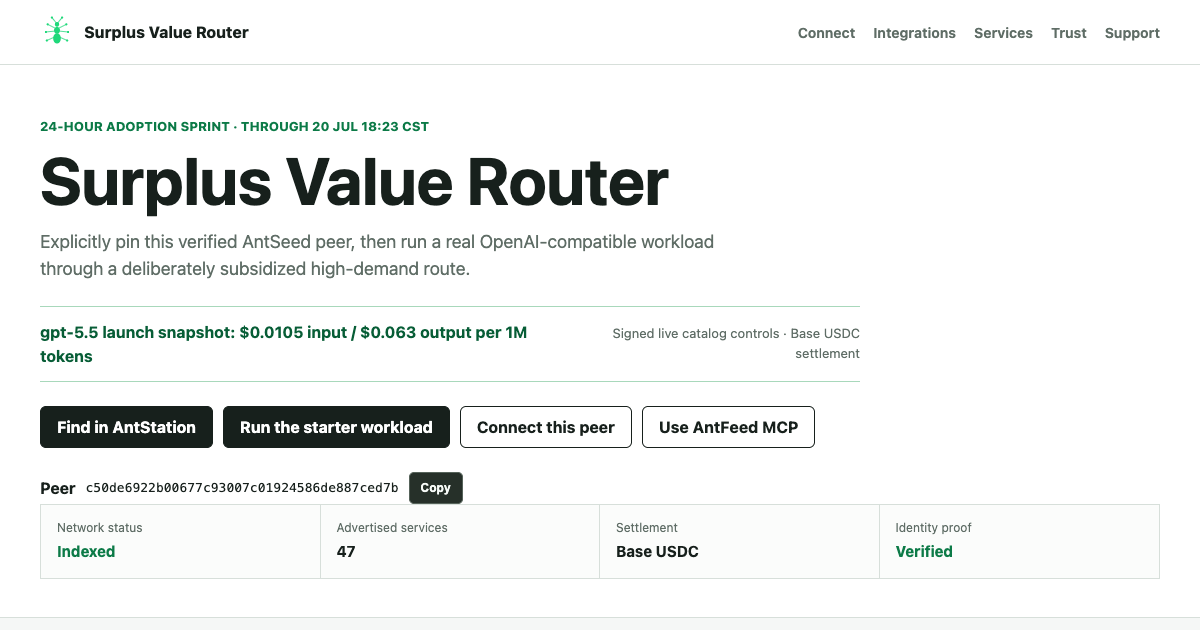
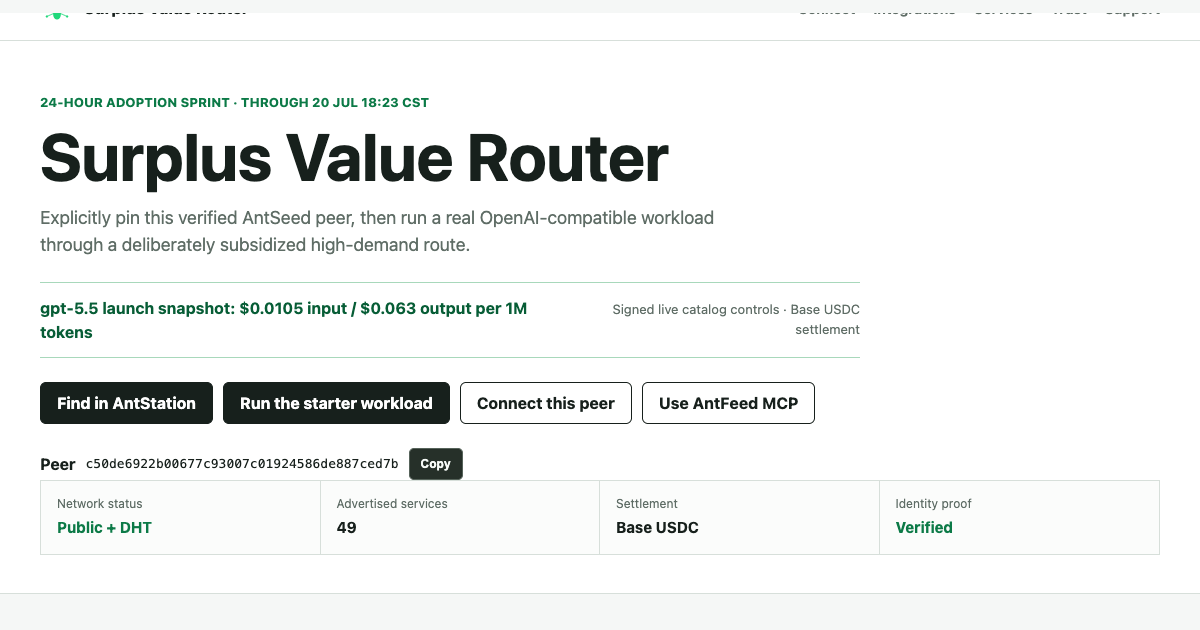
Publish monitored provider status

diff --git a/index.html b/index.html
@@ -592,11 +592,11 @@
           <div class="status-strip" aria-live="polite">
             <div class="status-item">
               <span class="status-label">Network status</span>
-              <span class="status-value status-warn" id="network-status">Checking index</span>
+              <span class="status-value status-warn" id="network-status">Checking status</span>
             </div>
             <div class="status-item">
               <span class="status-label">Advertised services</span>
-              <span class="status-value" id="service-count">47</span>
+              <span class="status-value" id="service-count">49</span>
             </div>
             <div class="status-item">
               <span class="status-label">Settlement</span>
@@ -1042,23 +1042,40 @@ https://woodfuturebj-boop.github.io/?model=gpt-5.5#first-workload</code></pre>
       async function loadStatus() {
         const networkStatus = document.getElementById("network-status");
         const proofStatus = document.getElementById("proof-status");
+        let providerStatusLoaded = false;
         try {
-          const response = await fetch("https://network.antseed.com/stats", { cache: "no-store" });
-          if (!response.ok) throw new Error("network stats unavailable");
-          const stats = await response.json();
-          const peer = (stats.peers || []).find((item) => item.peerId === PEER_ID);
-          networkStatus.textContent = peer ? "Indexed" : "DHT propagation";
-          networkStatus.className = `status-value ${peer ? "status-good" : "status-warn"}`;
-          if (peer) {
-            const serviceCount = (peer.providers || []).reduce(
-              (count, provider) => count + (provider.services || []).length,
-              0,
-            );
-            document.getElementById("service-count").textContent = String(serviceCount || 47);
-          }
+          const response = await fetch("provider-status.json", { cache: "no-store" });
+          if (!response.ok) throw new Error("provider status unavailable");
+          const status = await response.json();
+          const peerMatches = String(status.peerId || "").toLowerCase() === PEER_ID;
+          const healthy = peerMatches && status.publicMetadataOk && status.freshDhtFound && status.okForOrganicCalls;
+          networkStatus.textContent = healthy ? "Public + DHT" : "Review status";
+          networkStatus.className = `status-value ${healthy ? "status-good" : "status-warn"}`;
+          networkStatus.title = status.generatedAt ? `Monitor snapshot: ${status.generatedAt}` : "Monitor snapshot";
+          document.getElementById("service-count").textContent = String(status.serviceCount || 49);
+          providerStatusLoaded = true;
         } catch {
-          networkStatus.textContent = "Check via CLI";
-          networkStatus.className = "status-value status-warn";
+          try {
+            const response = await fetch("https://network.antseed.com/stats", { cache: "no-store" });
+            if (!response.ok) throw new Error("network stats unavailable");
+            const stats = await response.json();
+            const peer = (stats.peers || []).find((item) => item.peerId === PEER_ID);
+            networkStatus.textContent = peer ? "Indexed sample" : "Check via CLI";
+            networkStatus.className = `status-value ${peer ? "status-good" : "status-warn"}`;
+          } catch {
+            networkStatus.textContent = "Check via CLI";
+            networkStatus.className = "status-value status-warn";
+          }
+        }
+
+        if (providerStatusLoaded) {
+          fetch("https://network.antseed.com/stats", { cache: "no-store" })
+            .then((response) => response.ok ? response.json() : null)
+            .then((stats) => {
+              const indexed = (stats?.peers || []).some((item) => item.peerId === PEER_ID);
+              networkStatus.dataset.directoryIndexed = String(indexed);
+            })
+            .catch(() => {});
         }
 
         try {